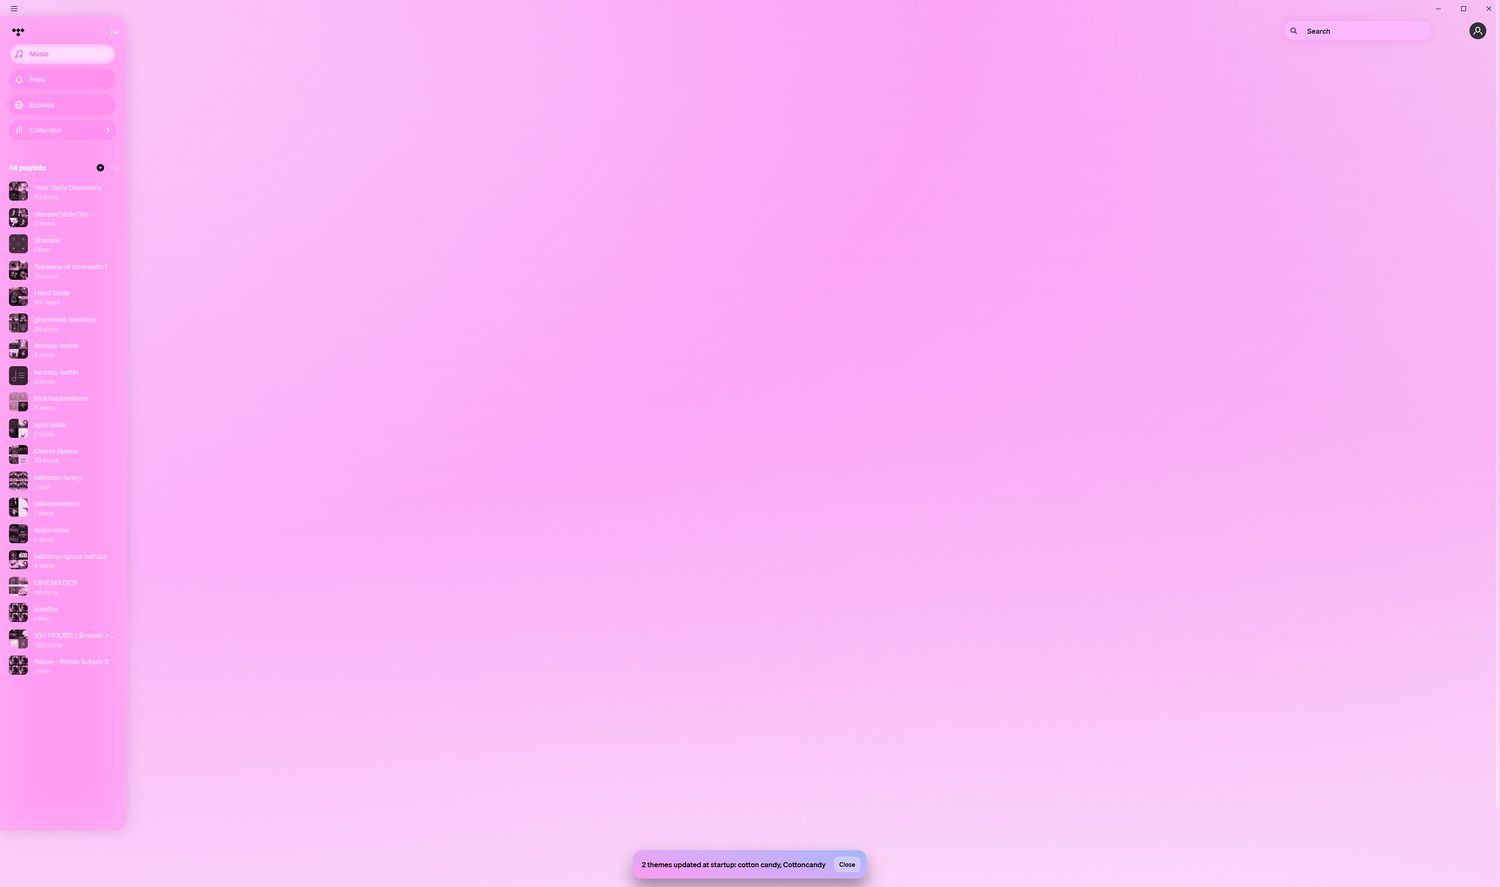
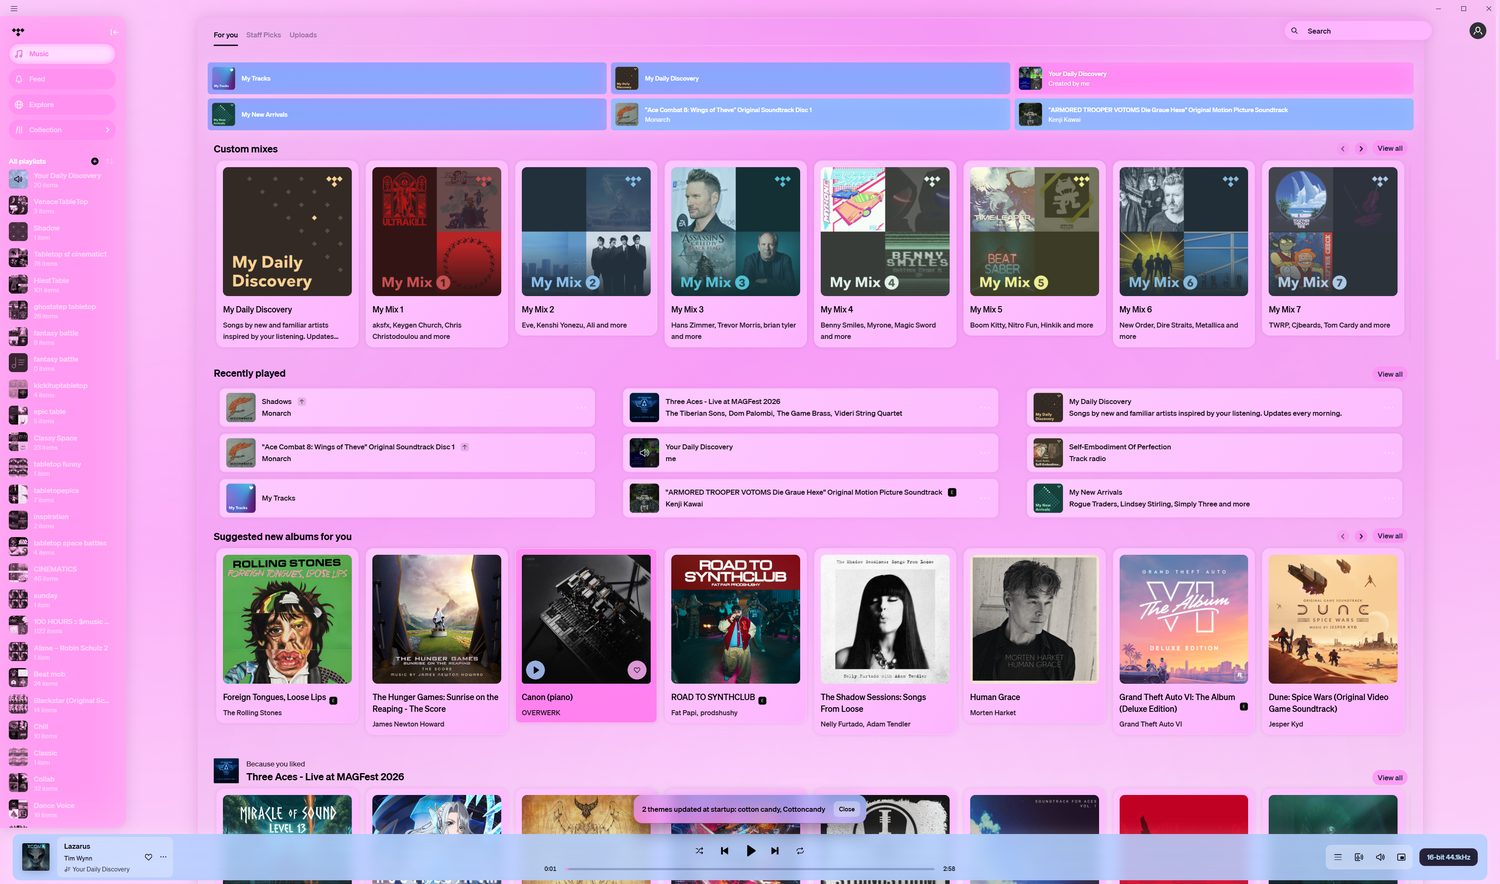
fix(ui): show the startup update toast when the page is actually up
The toast fired about two seconds in, while TIDAL was still a blank shell, and
TIDAL dismisses its own toasts after roughly four seconds with no duration in the
payload to lengthen. So the notice was both shown too early and gone before the
app was usable.

It now waits for the sidebar and for real page content, capped at eight seconds
so a failed load cannot swallow it, and the same message is kept in a dismissible
strip on the themes tab for after the toast has gone.

diff --git a/plugins/ui/src/SettingsPage/Storage.tsx b/plugins/ui/src/SettingsPage/Storage.tsx
@@ -4,7 +4,7 @@ import Box from "@mui/material/Box";
 import TextField from "@mui/material/TextField";
 import Typography from "@mui/material/Typography";
 
-import { debounce } from "@inrixia/helpers";
+import { debounce, Signal } from "@inrixia/helpers";
 import { ftch, LunaPlugin, ReactiveStore } from "@luna/core";
 import { StyleTag } from "@luna/lib";
 
@@ -25,6 +25,15 @@ import { describeResources, parseThemeResources, resourceProblem, stylesheetProb
 import type { ThemeConsent } from "./ThemesTab/themeResources";
 import { addToStores } from "./PluginStoreTab";
 import { confirm } from "../helpers/confirm";
+
+/**
+ * What the last startup changed, kept after the toast is gone.
+ *
+ * TIDAL's toasts last about four seconds and there is no duration in the payload to lengthen, so a toast alone loses the
+ * information: by the time the app has finished loading and you look at it, it is already dismissing. The tab shows this
+ * instead, until it is dismissed.
+ */
+export const startupNotice = new Signal<string | undefined>(undefined);
 
 const lunaStorage = ReactiveStore.getStore("@luna/storage");
 
@@ -176,7 +185,12 @@ revalidateThemes(themes, themeStyles, {
 		// screen to explain why. The names come from the url, since the css has not been parsed into a manifest yet.
 		// The name the row would show: the manifest's, when the css has one, since that is what the user sees in the tab
 		const message = startupUpdateMessage(summary, (url) => themeDisplay(url, parseThemeManifest(themes[url]?.css)).name);
-		if (message !== undefined) Messager.Info(message);
+		if (message !== undefined) {
+			startupNotice._ = message;
+			// Wait for TIDAL's own shell: shown during startup the toast is gone in four seconds, before the app is even
+			// usable, so nobody sees it. Once the shell is up it lands on the page the user is actually looking at.
+			void whenAppReady().then(() => Messager.Info(message));
+		}
 		if (summary.failed.length > 0) console.error(`[Themes] ${summary.failed.length} theme(s) could not be checked at startup`);
 	})
 	.catch((e) => console.error("[Themes] Startup theme refresh failed", e));
@@ -315,3 +329,26 @@ export const InstallFromUrl = React.memo(() => {
 		/>
 	);
 });
+
+/**
+ * Resolve once TIDAL has painted its own interface, or after a cap.
+ *
+ * The cap matters: if the shell never appears (a failed load, an update) the toast should still be shown rather than
+ * being swallowed by a promise that never settles.
+ */
+export const whenAppReady = (maxMs = 8000): Promise<void> =>
+	new Promise((resolve) => {
+		const started = Date.now();
+		const check = () => {
+			// TIDAL's shell is the sidebar plus real page content. The sidebar alone appears while the page is still a
+			// blank outline, and a toast shown then lands on an empty window and is gone before the content paints.
+			const hasShell = document.querySelector('nav, [class*="sidebar"]') !== null;
+			const hasContent = (document.querySelector("main")?.innerText ?? "").trim().length > 200;
+			if ((hasShell && hasContent) || Date.now() - started >= maxMs) {
+				resolve();
+				return;
+			}
+			setTimeout(check, 200);
+		};
+		check();
+	});

diff --git a/plugins/ui/src/SettingsPage/ThemesTab/index.tsx b/plugins/ui/src/SettingsPage/ThemesTab/index.tsx
@@ -4,7 +4,7 @@ import Box from "@mui/material/Box";
 import Stack from "@mui/material/Stack";
 import Typography from "@mui/material/Typography";
 
-import { InstallFromUrl, themes, themeStyles } from "../Storage";
+import { InstallFromUrl, startupNotice, themes, themeStyles } from "../Storage";
 import { LunaTheme } from "./LunaTheme";
 
 import { store as obyStore } from "oby";
@@ -17,6 +17,16 @@ export const ThemesTab = React.memo(() => {
 	const [_themes, setThemes] = React.useState(() => ({ ...obyStore.unwrap(themes) }));
 	// Return the disposer so closing the tab stops listening
 	React.useEffect(() => obyStore.on(themes, () => setThemes({ ...obyStore.unwrap(themes) })), []);
+
+	// What the last startup changed. The toast for this lasts about four seconds, so this is the copy that keeps it.
+	const [notice, setNotice] = React.useState(() => startupNotice._);
+	// onValue returns the unsubscribe; the cleanup has to return nothing, and VoidFn is typed as returning a value
+	React.useEffect(() => {
+		const stop = startupNotice.onValue(setNotice);
+		return () => {
+			void stop();
+		};
+	}, []);
 
 	const entries = Object.entries(_themes);
 	// The noun matters: "1 of 2 on" never said of what. This says how many are installed and calls out the ones that
@@ -31,6 +41,22 @@ export const ThemesTab = React.memo(() => {
 		<Stack spacing={2}>
 			<InstallFromUrl />
 			<Typography variant="caption" sx={{ color: "inherit" }} children={summary} />
+			{notice !== undefined && (
+				// A bordered strip rather than another line of text: it is a thing that happened, and it can be put away
+				<Stack
+					direction="row"
+					spacing={1}
+					sx={{ alignItems: "center", justifyContent: "space-between", border: "1px solid currentColor", borderRadius: 1, padding: "6px 10px" }}
+				>
+					<Typography variant="body2" sx={{ color: "inherit", fontWeight: "400 !important", lineHeight: 1.5 }} children={notice} />
+					<Typography
+						variant="caption"
+						onClick={() => (startupNotice._ = undefined)}
+						sx={{ color: "inherit", cursor: "pointer", textDecoration: "underline !important", flexShrink: 0 }}
+						children="Dismiss"
+					/>
+				</Stack>
+			)}
 			{entries.map(([url, theme]) => (
 				<LunaTheme
 					theme={theme}
